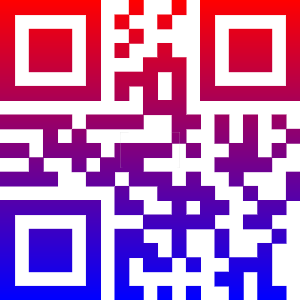
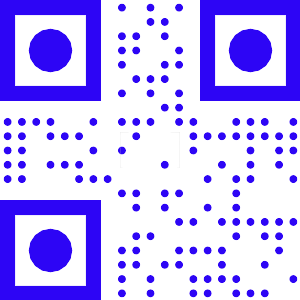
test

diff --git a/resources/views/livewire/content.blade.php b/resources/views/livewire/content.blade.php
@@ -34,7 +34,7 @@
            <img src='\images\down.png' alt="" srcset="" style="width:15px;height:10px;" id="Content" wire:ignore>
       </div>
      <div id="url1" wire:ignore>
-        <input type="text" placeholder="Enter a value:https:/yassineAboulanouar.com" value="hh" wire:model.debounce.500ms='input' class="Content1"> 
+        <input type="text" placeholder="Enter a value:yassineAboulanouar.com" value="hh" wire:model.debounce.500ms='input' class="Content1"> 
       </div>
        <div id="text1" style="display: none" wire:ignore>
         <input type="text" placeholder="Enter a Text"  style="height: 200px" wire:model='text' class="Content1">
@@ -60,7 +60,8 @@
         
        </div>
        <div id="bitcoin1" style="display: none" wire:ignore>
-        <input type="text" placeholder="bitcoin" class="Content1">
+        <input type="text" placeholder="adress" class="Content1" wire:model='adress'>
+        <input type="text" placeholder="amount" class="Content1" wire:model='amount'>
        </div>
        <div id="facebook1" style="display: none" wire:ignore>
         <input type="text" placeholder="facebook" wire:model="facebook" class="Content1">
@@ -165,7 +166,7 @@
     <div class="qrCodeDiv">
       @if(empty($input) && empty($text) && (empty($subject) || empty($to) || empty($body)) && empty($phone) && 
       (empty($sms) || empty($phoneN)) && (empty($ssid) || empty($password) || empty($encruption)) && empty($facebook) && empty($twitter) && empty($youtube) &&
-      empty($instagram)) 
+      empty($instagram)&& (empty($amount) || empty($adress))) 
         {{QrCode::size('300')->eye($eye)->gradient(255,0,0,0,0,255,$grd,$opacity)->margin(100-$margin)->style($style)->generate("hola")}}
       {{QrCode::size('300')->format('png')->merge('\storage\app\qrcodes'.$la, 0.2)->eye($eye)->gradient(255,0,0,0,0,255,$grd,$opacity)->margin(100-$margin)->style($style)->generate("hola",public_path('images/qrcode.'.$ext))}}
     {{-- {{QrCode::generate('hh',public_path('images/qrcode.'.$ext))}} --}}
@@ -177,13 +178,14 @@
      
     @if(!empty($input) && $frd==true)
      
-    {{ QrCode::gradient($R1,$G1,$B1,$R3,$G3,$B3,$grd,$opacity)->format('png')->merge('\storage\app\qrcodes'.$la, 0.2)->eye($eye)->backgroundColor($R,$G,$B,$opacity)->size('300')->style($style)->margin(100-$margin)->generate($input,public_path('images/qrcode.'.$ext))}}
-    {{ QrCode::gradient($R1,$G1,$B1,$R3,$G3,$B3,$grd,$opacity)->eye($eye)->backgroundColor($R,$G,$B,$opacity)->size('300')->style($style)->margin(100-$margin)->generate($input)}}
-      @elseif (!empty($input))
-      
-      {{ QrCode::color($R1,$G1,$B1,$opacity)->eye($eye)->format('png')->merge('\storage\app\qrcodes'.$la, 0.2)->backgroundColor($R,$G,$B,$opacity)->size('300')->margin(100-$margin)->style($style)->generate($input,public_path('images/qrcode.'.$ext))}}
-      {{ QrCode::color($R1,$G1,$B1,$opacity)->eye($eye)->backgroundColor($R,$G,$B,$opacity)->size('300')->margin(100-$margin)->style($style)->generate($input)}}
-
+    {{ QrCode::gradient($R1,$G1,$B1,$R3,$G3,$B3,$grd,$opacity)->format('png')->merge('\storage\app\qrcodes'.$la, 0.2)->eye($eye)->backgroundColor($R,$G,$B,$opacity)->size('300')->style($style)->margin(100-$margin)->generate('https://'.$input,public_path('images/qrcode.'.$ext))}}
+    {{ QrCode::gradient($R1,$G1,$B1,$R3,$G3,$B3,$grd,$opacity)->eye($eye)->backgroundColor($R,$G,$B,$opacity)->size('300')->style($style)->margin(100-$margin)->generate('https://'.$input)}}
+      @elseif (!empty($input) && $bol==false)
+      {{ QrCode::color($R1,$G1,$B1,$opacity)->eye($eye)->format('png')->merge('\storage\app\qrcodes'.$la, 0.2)->backgroundColor($R,$G,$B,$opacity)->size('300')->margin(100-$margin)->style($style)->generate('https://'.$input,public_path('images/qrcode.'.$ext))}}
+      {{ QrCode::color($R1,$G1,$B1,$opacity)->eye($eye)->backgroundColor($R,$G,$B,$opacity)->size('300')->margin(100-$margin)->style($style)->generate('https://'.$input)}}
+    @elseif(!empty($input) && $bol==true)
+    {{ QrCode::color($R1,$G1,$B1,$opacity)->eye($eye)->backgroundColor($R,$G,$B,$opacity)->size('300')->margin(100-$margin)->style($style)->generate('http://127.0.0.1:8000'.$idd,public_path('images/lala.svg'))}}
+    {{ QrCode::color($R1,$G1,$B1,$opacity)->eye($eye)->backgroundColor($R,$G,$B,$opacity)->size('300')->margin(100-$margin)->style($style)->generate('http://127.0.0.1:8000'.$idd)}}
 
       @endif
     </div>
@@ -260,6 +262,16 @@
       @endif
     </div>
     <div id="qrCodeDiv">
+      @if(!empty($amount) && !empty($adress) && $frd==true)
+      {{ QrCode::gradient($R1,$G1,$B1,$R3,$G3,$B3,$grd,$opacity)->eye($eye)->backgroundColor($R,$G,$B,$opacity)->style($style)->size('300')->margin(100-$margin)->BTC($adress,$amount)}}
+      {{ QrCode::gradient($R1,$G1,$B1,$R3,$G3,$B3,$grd,$opacity)->format('png')->merge('\storage\app\qrcodes'.$la, 0.2)->eye($eye)->backgroundColor($R,$G,$B,$opacity)->style($style)->size('300')->margin(100-$margin)->generate($adress.$amount,public_path('images/qrcode.'.$ext))}}
+
+      @elseif (!empty($amount) && !empty($adress) )
+      {{ QrCode::color($R1,$G1,$B1,$opacity)->eye($eye)->backgroundColor($R,$G,$B,$opacity)->size('300')->margin(100-$margin)->style($style)->BTC($adress,$amount)}}
+      {{ QrCode::color($R1,$G1,$B1,$opacity)->eye($eye)->format('png')->merge('\storage\app\qrcodes'.$la, 0.2)->backgroundColor($R,$G,$B,$opacity)->size('300')->margin(100-$margin)->style($style)->generate($adress.$amount,public_path('images/qrcode.'.$ext))}}
+      @endif
+    </div>
+    <div id="qrCodeDiv">
       @if(!empty($twitter) && $frd==true)
       {{ QrCode::gradient($R1,$G1,$B1,$R3,$G3,$B3,$grd,$opacity)->eye($eye)->backgroundColor($R,$G,$B,$opacity)->style($style)->size('300')->margin(100-$margin)->generate($twitter)}}
       {{ QrCode::gradient($R1,$G1,$B1,$R3,$G3,$B3,$grd,$opacity)->format('png')->merge('\storage\app\qrcodes'.$la, 0.2)->eye($eye)->backgroundColor($R,$G,$B,$opacity)->style($style)->size('300')->margin(100-$margin)->generate($twitter,public_path('images/qrcode.'.$ext))}}
@@ -301,7 +313,16 @@
 <p>JPEG</p>
   </div>
 </div>
-<button id="btnn"><a href="{{asset('images/qrcode.'.$ext)}}"></a></button>
+<div wire:ignore style="cursor: pointer;margin-top:20px">
+  <input wire:click='store' type="checkbox" name="" style="width: 50px; margin-left:2px" wire:model='bol' >
+  
+  <label for="chb">Tracking</label>
+       </div>
+<button  style="background: #ebe5e2;margin-bottom:50px">
+  @if($bol==true)
+  <a style="color:#393736" href="{{asset('http://127.0.0.1:8000/vue'.$idd)}}">Tracking</a>
+  @endif
+</button>
       </div>
     
   </div>
@@ -665,8 +686,6 @@ for(var j=0; j<data.length; j++){
     // document.getElementById(data[j].id).style.fontSize="15px";
     document.getElementById(this.id).style.borderBottom="0.3rem solid";
     document.getElementById(data[j].id).style.borderBottom="none";
-   
-
     // alert(i);
     // alert(j);
 }

diff --git a/app/Http/Livewire/Content.php b/app/Http/Livewire/Content.php
@@ -1,10 +1,13 @@
 <?php
 
 namespace App\Http\Livewire;
+
+use App\Models\scan;
 use Illuminate\Encryption\EncryptionServiceProvider;
 use Illuminate\Http\FileHelpers;
 use Livewire\Component;
 use Livewire\WithFileUploads;
+
 class Content extends Component
 {
     use WithFileUploads;
@@ -43,15 +46,21 @@ class Content extends Component
     public $frd=false;
     public $tab = array();
     public $facebook;
+    public $adress;
+    public $amount;
     public $twitter;
     public $instagram;
     public $youtube;
     public $img;
     public $la='\pp.png';
-    
+    public $idd;
+    public $bol=false;
 
     public function render()
     {
+        if(empty($this->input))
+        $this->bol=false;
+       
 
         $this->R=hexdec(substr($this->color,1,2));
         $this->G=hexdec(substr($this->color,3,2));
@@ -68,7 +77,8 @@ class Content extends Component
         $this->G3,'B3',$this->B3,$this->test,'test',$this->frd,'frd','text',$this->text,'subject',$this->subject,
         'to',$this->to,'body',$this->body,'phone',$this->phone,'sms',$this->sms,'phoneN',$this->phoneN,'ssid',$this->ssid,
     'password',$this->password,'encruption',$this->encruption,'facebook',$this->facebook,'twitter',$this->twitter,'instagram'
-    ,$this->instagram,'youtube',$this->youtube,'margin',$this->margin,'style',$this->style,'grd',$this->grd,'eye',$this->eye,'ext',$this->ext,'la',$this->la);
+    ,$this->instagram,'youtube',$this->youtube,'margin',$this->margin,'style',$this->style,'grd',$this->grd,'eye',
+    $this->eye,'ext',$this->ext,'la',$this->la,'bol',$this->bol,'idd',$this->idd,'adress',$this->adress,'amount',$this->amount);
     
     }
 public function change(){
@@ -90,6 +100,8 @@ $this->facebook="";
 $this->twitter="";
 $this->instagram="";
 $this->youtube="";
+$this->amount="";
+$this->adress="";
 
 }
 public function dot(){
@@ -132,6 +144,17 @@ public function addlogo(){
     public function removeLogo(){
         $this->la='\pp.png';
         $this->img='';
+    }
+    public function store(){
+     if(!empty($this->input))
+            $user = new scan();
+            $user->qr_code=$this->input;
+            $user->scan_count=0;
+            $user->save();
+            $this->idd='/'.$user->id;
+          
+            
+        
     }
 
 }

diff --git a/routes/web.php b/routes/web.php
@@ -1,9 +1,9 @@
 <?php
-
-
+use App\Models\scan;
 use App\Http\Controllers\test;
 use Illuminate\Support\Facades\Http;
 use Illuminate\Support\Facades\Route;
+use Illuminate\Support\Facades\Session;
 
 /*
 |--------------------------------------------------------------------------
@@ -22,11 +22,30 @@ Route::get('/', function () {
 Route::get('/qrcode', function () {
     return view('welcome2');
 })->name('qrcodee');
-
+Route::get('vue',function(){
+    $test=scan::where('id',session('id'))->first();
+    if($test)
+   return view('vuee',['data'=>$test]);
+})->name('vue');
 Route::any('login',[test::class,'login'])->name('login');
 Route::any('qrcode',[test::class,'direct'])->name('qrcode');
 Route::post('store',[test::class,'store'])->name('store');
-Route::view('vuee','vuee');
+// Route::get('vue',function(){
+// $test=scan::where('id',session::get('id'))->first();
+// Session::put('scancount',$test->scan_count);
+// });
+Route::get('vue/{id}',function($id){
+    $test=scan::where('id',$id)->first();
+    //  Session::put('scancount',$test->scan_count);
+     Session::put('id',$id);
+    return redirect()->route('vue');
+});
+Route::any('/{id}',function ($id){
+$test=scan::where('id',$id)->first();
+$test->scan_count++;
+$test->save();
+return redirect()->away('https://'.$test->qr_code);
+});
 
 
 // Route::get('hh',function () {

diff --git a/resources/views/welcome1.blade.php b/resources/views/welcome1.blade.php
@@ -126,8 +126,8 @@
             <div class="service ">
                 <img src="images/pin.png " alt=" ">
                 <h2>Adresses</h2>
-                <p>France-Paris</p>
-                <p>Bénin-Cotonou</p>
+                <p>Morroco</p>
+                <p>Berrechid</p>
             </div>
             <div class="service ">
                 <img src="images/email.png " alt=" ">
@@ -139,16 +139,12 @@
                 <img src="images/call.png " alt=" ">
                 <h2>Numbers</h2>
                 <p>0774950554</p>
-
             </div>
-
             <hr>
         </div>
 
         <p class="footer_text ">Réalisé par <span>Yassine Aboulanouar</span> </p>
     </footer>
-
-
     <script>
         var small_menu = document.querySelector('.toggle_menu')
         var menu = document.querySelector('.menu')

diff --git a/resources/views/vuee.blade.php b/resources/views/vuee.blade.php
@@ -1,1 +1,12 @@
-{{QrCode::size('300')->gradient(255,0,0,0,0,255,'vertical')->generate("http://127.0.0.1:8000/admin")}}
+<html style="background:linear-gradient(150deg, #c8bebe98, 5%, #74b9de8e, 50%, #5e62cc9f);">
+
+<div style="display:flex; margin-top:100px;padding-left:60px ;">
+
+
+<img  src="images/lala.svg" alt="" srcset="">
+
+<h1 style="margin-left:680px;margin-top:120px;font-size:200px">{{$data->scan_count}}</h1>
+</div>
+</html>
+
+{{-- <h1>{{$hh}}</h1> --}}

diff --git a/app/Models/scan.php b/app/Models/scan.php
@@ -7,5 +7,10 @@ use Illuminate\Database\Eloquent\Model;
 
 class scan extends Model
 {
-    use HasFactory;
+    use HasFactory; 
+    protected $fillable = [
+        'id',
+        'qr_code',
+        'scan_count',
+    ];
 }
